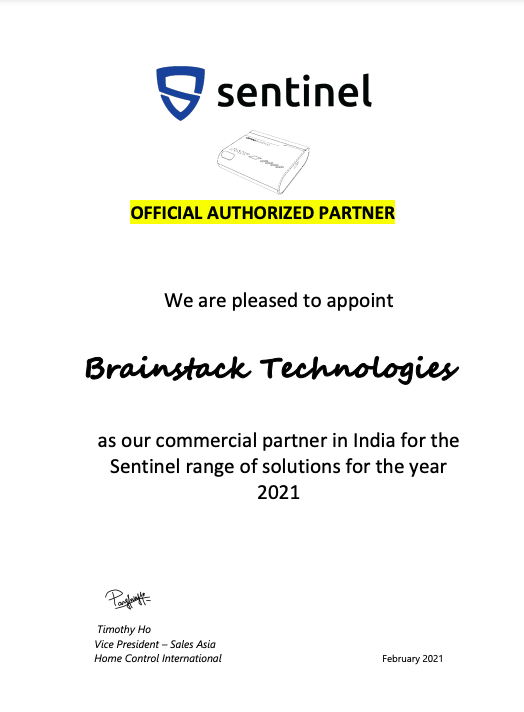
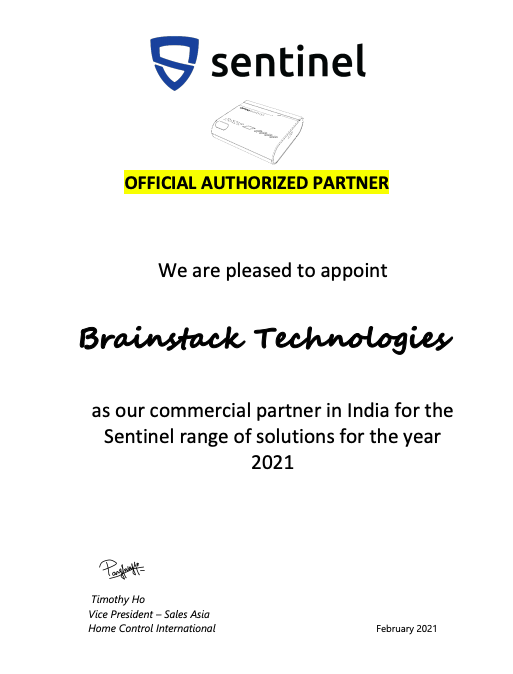
removed extra vid, fixed sentinal popup certificate, hire text dark

diff --git a/blog-details.html b/blog-details.html
@@ -3,7 +3,7 @@
 	<head>
 		<meta charset="utf-8">
 		<meta http-equiv="x-ua-compatible" content="ie=edge">
-		<title>Blog details | randerc </title>
+		<title>Blog details | Brainstack Technologies </title>
 		<meta name="description" content="">
 		<meta name="viewport" content="width=device-width, initial-scale=1">
 
@@ -52,7 +52,7 @@
                         <div class=" col-md-9 col-sm-9">
                             <div class="topbar-left">
                                 <ul>
-                                    <li><a href="#"><i class="fa fa-envelope"></i> info@randerc3.com</a></li>
+                                    <li><a href="#"><i class="fa fa-envelope"></i> info@Brainstack Technologies3.com</a></li>
                                     <li><a href="#"><i class="fa fa-phone-square"></i> +3234-7665545</a></li>
                                     <li><a href="#"><i class="fa fa-clock-o"></i> Mon - Fri: 10:00 - 18:00</a></li>
                                 </ul>  
@@ -305,7 +305,7 @@
                                             </a>
                                         </div>
                                         <div class="pst-content">
-                                            <p><a href="#">randerc is an firm and general group.</a></p>
+                                            <p><a href="#">Brainstack Technologies is an firm and general group.</a></p>
                                             <span class="date-type">
                                                 20 June / 2019
                                             </span>
@@ -474,7 +474,7 @@
 													</a>
 												</div>
 												<div class="pst-content">
-													<p><a href="#">randerc is an firm and general group.</a></p>
+													<p><a href="#">Brainstack Technologies is an firm and general group.</a></p>
 													<span class="date-type">
 														20 June / 2020
 													</span>
@@ -598,7 +598,7 @@
                                     <div class="footer-contacts">
                                         <p><span>Location :</span> House- 65/4, Zonson street-3/5, London, UK</p>
 										<p><span>Tel :</span> +0890-564-5644</p>
-										<p><span>Email :</span> info@randerc3.com</p>
+										<p><span>Email :</span> info@Brainstack Technologies3.com</p>
 									</div> 
                                     <div class="footer-icons">
                                         <ul>
@@ -643,7 +643,7 @@
                             <div class="copyright">
                                 <p>
                                     Copyright © 2020
-                                    <a href="#">randerc</a> All Rights Reserved
+                                    <a href="#">Brainstack Technologies</a> All Rights Reserved
                                 </p>
                             </div>
                         </div>

diff --git a/project-details.html b/project-details.html
@@ -3,7 +3,7 @@
 	<head>
 		<meta charset="utf-8">
 		<meta http-equiv="x-ua-compatible" content="ie=edge">
-		<title>Project Details | randerc </title>
+		<title>Project Details | Brainstack Technologies </title>
 		<meta name="description" content="">
 		<meta name="viewport" content="width=device-width, initial-scale=1">
 
@@ -52,7 +52,7 @@
                         <div class=" col-md-9 col-sm-9">
                             <div class="topbar-left">
                                 <ul>
-                                    <li><a href="#"><i class="fa fa-envelope"></i> info@randerc3.com</a></li>
+                                    <li><a href="#"><i class="fa fa-envelope"></i> info@Brainstack Technologies3.com</a></li>
                                     <li><a href="#"><i class="fa fa-phone-square"></i> +3234-7665545</a></li>
                                     <li><a href="#"><i class="fa fa-clock-o"></i> Mon - Fri: 10:00 - 18:00</a></li>
                                 </ul>  
@@ -253,7 +253,7 @@
                         <div class="project-history">
                             <div class="project-name">
                                 <ul>
-                                    <li><span>Project</span>: randerc</li>
+                                    <li><span>Project</span>: Brainstack Technologies</li>
                                     <li><span>Categories</span> : Business</li>
                                     <li><span>Status</span> : Good</li>
                                     <li><span>Client</span> : Rechrd</li>
@@ -344,7 +344,7 @@
                                     <div class="footer-contacts">
                                         <p><span>Location :</span> House- 65/4, Zonson street-3/5, London, UK</p>
 										<p><span>Tel :</span> +0890-564-5644</p>
-										<p><span>Email :</span> info@randerc3.com</p>
+										<p><span>Email :</span> info@Brainstack Technologies3.com</p>
 									</div> 
                                     <div class="footer-icons">
                                         <ul>
@@ -389,7 +389,7 @@
                             <div class="copyright">
                                 <p>
                                     Copyright © 2020
-                                    <a href="#">randerc</a> All Rights Reserved
+                                    <a href="#">Brainstack Technologies</a> All Rights Reserved
                                 </p>
                             </div>
                         </div>

diff --git a/blog-sidebar.html b/blog-sidebar.html
@@ -3,7 +3,7 @@
 	<head>
 		<meta charset="utf-8">
 		<meta http-equiv="x-ua-compatible" content="ie=edge">
-		<title>Blog Sidebar | randerc </title>
+		<title>Blog Sidebar | Brainstack Technologies </title>
 		<meta name="description" content="">
 		<meta name="viewport" content="width=device-width, initial-scale=1">
 
@@ -52,7 +52,7 @@
                         <div class=" col-md-9 col-sm-9">
                             <div class="topbar-left">
                                 <ul>
-                                    <li><a href="#"><i class="fa fa-envelope"></i> info@randerc3.com</a></li>
+                                    <li><a href="#"><i class="fa fa-envelope"></i> info@Brainstack Technologies3.com</a></li>
                                     <li><a href="#"><i class="fa fa-phone-square"></i> +3234-7665545</a></li>
                                     <li><a href="#"><i class="fa fa-clock-o"></i> Mon - Fri: 10:00 - 18:00</a></li>
                                 </ul>  
@@ -438,7 +438,7 @@
 													</a>
 												</div>
 												<div class="pst-content">
-													<p><a href="#">randerc is an firm and general group.</a></p>
+													<p><a href="#">Brainstack Technologies is an firm and general group.</a></p>
 													<span class="date-type">
 														20 June / 2019
 													</span>
@@ -562,7 +562,7 @@
                                     <div class="footer-contacts">
                                         <p><span>Location :</span> House- 65/4, Zonson street-3/5, London, UK</p>
 										<p><span>Tel :</span> +0890-564-5644</p>
-										<p><span>Email :</span> info@randerc3.com</p>
+										<p><span>Email :</span> info@Brainstack Technologies3.com</p>
 									</div> 
                                     <div class="footer-icons">
                                         <ul>
@@ -607,7 +607,7 @@
                             <div class="copyright">
                                 <p>
                                     Copyright © 2020
-                                    <a href="#">randerc</a> All Rights Reserved
+                                    <a href="#">Brainstack Technologies</a> All Rights Reserved
                                 </p>
                             </div>
                         </div>

diff --git a/services-2.html b/services-2.html
@@ -3,7 +3,7 @@
 	<head>
 		<meta charset="utf-8">
 		<meta http-equiv="x-ua-compatible" content="ie=edge">
-		<title>Services 2 | randerc </title>
+		<title>Services 2 | Brainstack Technologies </title>
 		<meta name="description" content="">
 		<meta name="viewport" content="width=device-width, initial-scale=1">
 
@@ -52,7 +52,7 @@
                         <div class=" col-md-9 col-sm-9">
                             <div class="topbar-left">
                                 <ul>
-                                    <li><a href="#"><i class="fa fa-envelope"></i> info@randerc3.com</a></li>
+                                    <li><a href="#"><i class="fa fa-envelope"></i> info@Brainstack Technologies3.com</a></li>
                                     <li><a href="#"><i class="fa fa-phone-square"></i> +3234-7665545</a></li>
                                     <li><a href="#"><i class="fa fa-clock-o"></i> Mon - Fri: 10:00 - 18:00</a></li>
                                 </ul>  
@@ -533,7 +533,7 @@
                                     <div class="footer-contacts">
                                         <p><span>Location :</span> House- 65/4, Zonson street-3/5, London, UK</p>
 										<p><span>Tel :</span> +0890-564-5644</p>
-										<p><span>Email :</span> info@randerc3.com</p>
+										<p><span>Email :</span> info@Brainstack Technologies3.com</p>
 									</div> 
                                     <div class="footer-icons">
                                         <ul>
@@ -578,7 +578,7 @@
                             <div class="copyright">
                                 <p>
                                     Copyright © 2020
-                                    <a href="#">randerc</a> All Rights Reserved
+                                    <a href="#">Brainstack Technologies</a> All Rights Reserved
                                 </p>
                             </div>
                         </div>

diff --git a/services-3.html b/services-3.html
@@ -3,7 +3,7 @@
 	<head>
 		<meta charset="utf-8">
 		<meta http-equiv="x-ua-compatible" content="ie=edge">
-		<title>Services | randerc </title>
+		<title>Services | Brainstack Technologies </title>
 		<meta name="description" content="">
 		<meta name="viewport" content="width=device-width, initial-scale=1">
 
@@ -52,7 +52,7 @@
                         <div class=" col-md-9 col-sm-9">
                             <div class="topbar-left">
                                 <ul>
-                                    <li><a href="#"><i class="fa fa-envelope"></i> info@randerc3.com</a></li>
+                                    <li><a href="#"><i class="fa fa-envelope"></i> info@Brainstack Technologies3.com</a></li>
                                     <li><a href="#"><i class="fa fa-phone-square"></i> +3234-7665545</a></li>
                                     <li><a href="#"><i class="fa fa-clock-o"></i> Mon - Fri: 10:00 - 18:00</a></li>
                                 </ul>  
@@ -533,7 +533,7 @@
                                     <div class="footer-contacts">
                                         <p><span>Location :</span> House- 65/4, Zonson street-3/5, London, UK</p>
 										<p><span>Tel :</span> +0890-564-5644</p>
-										<p><span>Email :</span> info@randerc3.com</p>
+										<p><span>Email :</span> info@Brainstack Technologies3.com</p>
 									</div> 
                                     <div class="footer-icons">
                                         <ul>
@@ -578,7 +578,7 @@
                             <div class="copyright">
                                 <p>
                                     Copyright © 2020
-                                    <a href="#">randerc</a> All Rights Reserved
+                                    <a href="#">Brainstack Technologies</a> All Rights Reserved
                                 </p>
                             </div>
                         </div>

diff --git a/signup.html b/signup.html
@@ -3,7 +3,7 @@
 	<head>
 		<meta charset="utf-8">
 		<meta http-equiv="x-ua-compatible" content="ie=edge">
-		<title>Signup | randerc </title>
+		<title>Signup | Brainstack Technologies </title>
 		<meta name="description" content="">
 		<meta name="viewport" content="width=device-width, initial-scale=1">
 
@@ -52,7 +52,7 @@
                         <div class=" col-md-9 col-sm-9">
                             <div class="topbar-left">
                                 <ul>
-                                    <li><a href="#"><i class="fa fa-envelope"></i> info@randerc3.com</a></li>
+                                    <li><a href="#"><i class="fa fa-envelope"></i> info@Brainstack Technologies3.com</a></li>
                                     <li><a href="#"><i class="fa fa-phone-square"></i> +3234-7665545</a></li>
                                     <li><a href="#"><i class="fa fa-clock-o"></i> Mon - Fri: 10:00 - 18:00</a></li>
                                 </ul>  
@@ -347,7 +347,7 @@
                                     <div class="footer-contacts">
                                         <p><span>Location :</span> House- 65/4, Zonson street-3/5, London, UK</p>
 										<p><span>Tel :</span> +0890-564-5644</p>
-										<p><span>Email :</span> info@randerc3.com</p>
+										<p><span>Email :</span> info@Brainstack Technologies3.com</p>
 									</div> 
                                     <div class="footer-icons">
                                         <ul>
@@ -392,7 +392,7 @@
                             <div class="copyright">
                                 <p>
                                     Copyright © 2020
-                                    <a href="#">randerc</a> All Rights Reserved
+                                    <a href="#">Brainstack Technologies</a> All Rights Reserved
                                 </p>
                             </div>
                         </div>

diff --git a/login.html b/login.html
@@ -3,7 +3,7 @@
 	<head>
 		<meta charset="utf-8">
 		<meta http-equiv="x-ua-compatible" content="ie=edge">
-		<title>Login | randerc </title>
+		<title>Login | Brainstack Technologies </title>
 		<meta name="description" content="">
 		<meta name="viewport" content="width=device-width, initial-scale=1">
 
@@ -52,7 +52,7 @@
                         <div class=" col-md-9 col-sm-9">
                             <div class="topbar-left">
                                 <ul>
-                                    <li><a href="#"><i class="fa fa-envelope"></i> info@randerc3.com</a></li>
+                                    <li><a href="#"><i class="fa fa-envelope"></i> info@Brainstack Technologies3.com</a></li>
                                     <li><a href="#"><i class="fa fa-phone-square"></i> +3234-7665545</a></li>
                                     <li><a href="#"><i class="fa fa-clock-o"></i> Mon - Fri: 10:00 - 18:00</a></li>
                                 </ul>  
@@ -347,7 +347,7 @@
                                     <div class="footer-contacts">
                                         <p><span>Location :</span> House- 65/4, Zonson street-3/5, London, UK</p>
 										<p><span>Tel :</span> +0890-564-5644</p>
-										<p><span>Email :</span> info@randerc3.com</p>
+										<p><span>Email :</span> info@Brainstack Technologies3.com</p>
 									</div> 
                                     <div class="footer-icons">
                                         <ul>
@@ -392,7 +392,7 @@
                             <div class="copyright">
                                 <p>
                                     Copyright © 2020
-                                    <a href="#">randerc</a> All Rights Reserved
+                                    <a href="#">Brainstack Technologies</a> All Rights Reserved
                                 </p>
                             </div>
                         </div>

diff --git a/review.html b/review.html
@@ -3,7 +3,7 @@
 	<head>
 		<meta charset="utf-8">
 		<meta http-equiv="x-ua-compatible" content="ie=edge">
-		<title>Review | randerc </title>
+		<title>Review | Brainstack Technologies </title>
 		<meta name="description" content="">
 		<meta name="viewport" content="width=device-width, initial-scale=1">
 
@@ -248,18 +248,6 @@
                                 />
                             </div>
                         </div>
-
-                        <div class="col-md-4 col-sm-6 col-xs-12">
-                            <div class="single-testi">
-                                <video 
-                                    class="review-vid review-vid-resize1" 
-                                    controls
-                                    src="video/reviews/2.mp4" 
-                                    poster="video/reviews/vid2.png"
-                                />
-                            </div>
-                        </div>
-
 
                         <div class="col-md-4 col-sm-6 col-xs-12">
                             <div class="single-testi" id="review-card" >
@@ -625,5 +613,18 @@ ideation to execution, thus enabling our global clients to outperform the compet
 		<script src="js/plugins.js"></script>
 		<!-- main js -->
 		<script src="js/main.js"></script>
+
+        <script>
+            $(window).on('load',function(){
+                var resizeElement = document.getElementById('review-card')
+                addResizeListener(resizeElement, function(){
+                    const el = document.querySelectorAll('.review-vid-resize1')
+                    el.forEach(element => {
+                        const style  = `height: ${$('#review-card').height() - 8}px;`;
+                        element.setAttribute('style', style);
+                    })
+                });
+            });	
+        </script>
 	</body>
 </html>

diff --git a/service.html b/service.html
@@ -3,7 +3,7 @@
 	<head>
 		<meta charset="utf-8">
 		<meta http-equiv="x-ua-compatible" content="ie=edge">
-		<title>Services Details | randerc </title>
+		<title>Services Details | Brainstack Technologies </title>
 		<meta name="description" content="">
 		<meta name="viewport" content="width=device-width, initial-scale=1">
 
@@ -256,7 +256,7 @@
                                         <a>
                                             <h3>Application Engineering</h3>
                                         </a>
-                                        <p>Your business is unique, so should be your software systems. Off-the-shelf solutions are inflexible, resulting in a poor customer experience. <a href="contact.html">Hire</a> our experts to develop customised solution(s) for your business which covers every aspect and make sure you are not paying for anything you do not need.</p>
+                                        <p>Your business is unique, so should be your software systems. Off-the-shelf solutions are inflexible, resulting in a poor customer experience. <a href="contact.html"><strong style="color: #2F77FB;">Hire</strong></a> our experts to develop customised solution(s) for your business which covers every aspect and make sure you are not paying for anything you do not need.</p>
                                     </div>
                                 </div>
                                 <div class="col-md-12 col-sm-12 col-xs-12">

diff --git a/sentinel.html b/sentinel.html
@@ -435,10 +435,10 @@
                 <button type="button" class="close" data-dismiss="modal" aria-label="Close" style="position: absolute;background-color: #2F77FB;z-index: 1000;width:30px;height:30px;border-radius: 15px;right:-10px;top:-10px;opacity: 1;">
                     <svg style="margin-top:2px;" fill="#fff" width="24px" height="24px" viewBox="0 0 24 24" xmlns="http://www.w3.org/2000/svg"><g data-name="Layer 2"><g data-name="close"><rect width="24" height="24" transform="rotate(180 12 12)" opacity="0"/><path d="M13.41 12l4.3-4.29a1 1 0 1 0-1.42-1.42L12 10.59l-4.29-4.3a1 1 0 0 0-1.42 1.42l4.3 4.29-4.3 4.29a1 1 0 0 0 0 1.42 1 1 0 0 0 1.42 0l4.29-4.3 4.29 4.3a1 1 0 0 0 1.42 0 1 1 0 0 0 0-1.42z"/></g></g></svg>
                 </button>
-                <div class="modal-body">
+                <div class="modal-body" style="display: flex;align-items: center;justify-content: center;">
                 
                     <a href="sentinel.html">
-                        <img src="img/certificate.png" style="max-height: 500px;"/>
+                        <img src="img/certificate.png" style="max-height: 600px;"/>
                     </a>
 
                 </div>

diff --git a/index.html b/index.html
@@ -1940,17 +1940,6 @@
                                         />
                                     </div>
                                 <!-- </div> -->
-        
-                                <!-- <div class="col-md-4 col-sm-6 col-xs-12"> -->
-                                    <div class="single-testi">
-                                        <video 
-                                            class="review-vid review-vid-resize" 
-                                            controls
-                                            src="video/reviews/2.mp4" 
-                                            poster="video/reviews/vid2.png"
-                                        />
-                                    </div>
-                                <!-- </div> -->
 
                                 <div class="single-testi" id="testimonial-card">
                                     <div class="testi-text">

diff --git a/about.html b/about.html
@@ -367,7 +367,7 @@
 				    <!-- Start Column -->
 					<div class="col-md-6 col-sm-6 col-xs-12">
 						<div class="overview-wrapper">
-						    <h3> randerc technology firm clients web related security services </h3>
+						    <h3> Brainstack technology firm clients web related security services </h3>
                             <p>
                                 Our independent consultants, free from the internal demands of traditional firms, can focus on what really matters: delivering lasting impact. Our consultants opt in to the projects they genuinely want to work on, committing wholeheartedly to delivering transformational change for the client, while being part of a strong team of like-minded professionals.
                             </p>
